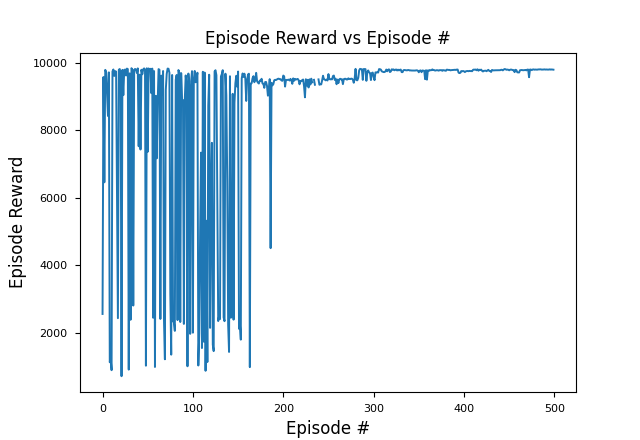
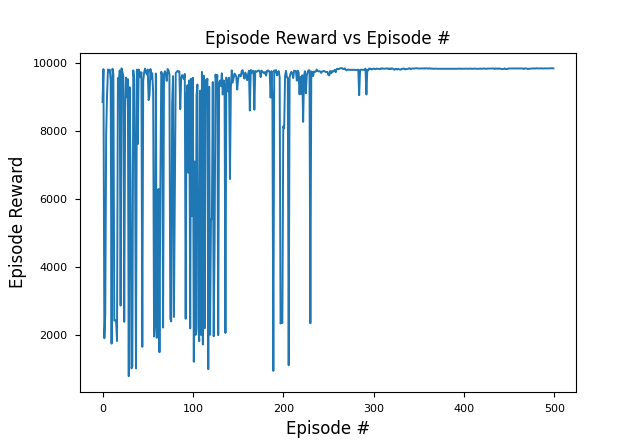
fixed output quantization by setting min and max value

diff --git a/train/quantizer/Quantizer.py b/train/quantizer/Quantizer.py
@@ -17,6 +17,7 @@ from brevitas.graph.base import ModuleToModuleByInstance
 from brevitas.graph.base import ModuleInstanceToModuleInstance
 
 from brevitas.quant.scaled_int import Int8ActPerTensorFloat
+from brevitas.quant.scaled_int import Int8ActPerTensorFloatMinMaxInit
 from brevitas.quant.scaled_int import Int8WeightPerTensorFloat
 from brevitas.quant.scaled_int import Int16Bias
 from brevitas.quant.scaled_int import Int32Bias
@@ -160,7 +161,7 @@ class Quantizer(object):
             'dtype': torch.float32,
             'return_quant_tensor': False}
         
-        quant_act_kwargs = {'act_quant': act_quant, 'return_quant_tensor' : True}
+        quant_act_kwargs = {'act_quant': act_quant, 'return_quant_tensor' : False}
         unsigned_quant_act_kwargs = quant_act_kwargs.copy()
 
         quant_mha_kwargs['attn_output_weights_signed'] = False
@@ -212,6 +213,7 @@ class Quantizer(object):
         for i in range(num_quant_acts, len(quantizable_idx)):
             model = self.quantize_layer(model, quantizable_idx[i], int(strategy[i]))
 
+        model = DisableLastReturnQuantTensor().apply(model)
         model.train(training_state)
         config.IGNORE_MISSING_KEYS = ignore_missing_keys_state
 
@@ -242,10 +244,11 @@ class Quantizer(object):
                         model):
 
         # Input quantizer fixed at 8 bits
-        input_quantizer, input_quantizer_kwargs = self.quantize_kwargs['quant_identity_map']['signed']
-        input_quantizer_kwargs['bit_width'] = 8
-        input_quantizer = (input_quantizer, input_quantizer_kwargs)
-        
+        input_quantizer = (qnn.QuantIdentity, { 'act_quant': Int8ActPerTensorFloat, 
+                                                'return_quant_tensor': False, 
+                                                'bit_width': 8, 
+                                                'scaling_min_val' : 2e-16})
+                                                #'scaling_per_output_channel' : True})
         model = inp_placeholder_handler(model, input_quantizer)
         return model
 
@@ -340,17 +343,18 @@ class Quantizer(object):
                         # for output quant, keep it to 8 bits
                         output_quant_identity_map = deepcopy(quant_identity_map)
                         for n in node.users:
-                            if n.op != 'output':
-                                #output_quant_identity_map['bit_width'] = 8
-
-                                output_quant_handler(
-                                model,
-                                node,
-                                rewriters,
-                                is_sign_preserving=isinstance(module, SIGN_PRESERVING_MODULES),
-                                quant_identity_map=output_quant_identity_map,
-                                quant_act_map=quant_act_map,
-                                unsigned_act_tuple=unsigned_act_tuple)
+                            if n.op == 'output':
+                                output_quant_identity_map = {'signed': (qnn.QuantIdentity, {'act_quant': Int8ActPerTensorFloatMinMaxInit, 'return_quant_tensor': False, 'bit_width': 8, 'min_val' : -128.0, 'max_val' : 127.0}), 
+                                                            'unsigned': (qnn.QuantIdentity, {'act_quant': Int8ActPerTensorFloatMinMaxInit, 'return_quant_tensor': False, 'signed': False, 'bit_width' : 8, 'min_val' : -128.0, 'max_val' : 127.0})
+                                                            }
+                        output_quant_handler(
+                        model,
+                        node,
+                        rewriters,
+                        is_sign_preserving=isinstance(module, SIGN_PRESERVING_MODULES),
+                        quant_identity_map=output_quant_identity_map,
+                        quant_act_map=quant_act_map,
+                        unsigned_act_tuple=unsigned_act_tuple)
 
                     if layer_map[type(module)] is not None:
                         quant_module_class, quant_module_kwargs = layer_map[type(module)]

diff --git a/train/finetune/Finetuner.py b/train/finetune/Finetuner.py
@@ -1,3 +1,5 @@
+import numpy as np
+import random
 import torch
 import torchvision
 import torch.nn as nn
@@ -30,6 +32,7 @@ class Finetuner(object):
 	def __init__(self, args, model_config):
 		self.args = args
 		
+		# set seed to reproduce
 		# Initialize device
 		self.device = None
 		self.init_device()
@@ -115,29 +118,44 @@ class Finetuner(object):
 		calib_length = int(args.calib_subset * total_length)
 
 		train_length = total_length - calib_length
+		
+		g = torch.Generator()
+		g.manual_seed(self.args.seed)
 
 		self.train_set, self.calib_set = random_split(
 			self.train_set, 
-			[train_length, calib_length]
+			[train_length, calib_length],
+			generator=g
 		)
 
 		self.train_set, _ = random_split(self.train_set, 
 										 [int(train_length * self.args.finetuning_subset), 
-										  int(train_length - train_length * self.args.finetuning_subset)])
+										  int(train_length - train_length * self.args.finetuning_subset)],
+										  generator=g)
+
+		def seed_worker(worker_id):
+			worker_seed = self.args.seed
+			np.random.seed(worker_seed)
+			random.seed(worker_seed)
+
 
 		self.train_loader = DataLoader(self.train_set,
 									   batch_size = self.batch_size_finetuning,
 									   num_workers = self.args.num_workers,
-									   shuffle = True)
+									   worker_init_fn=seed_worker,
+									   generator = g)
 		
 		self.calib_loader = DataLoader(self.calib_set, 
 									   batch_size = self.batch_size_finetuning,
 									   num_workers = self.args.num_workers,
-									   shuffle = True)
+									   worker_init_fn=seed_worker,
+									   generator = g)
 			 
 		self.test_loader = DataLoader(self.test_set,
 									  batch_size = self.batch_size_testing,
-									  num_workers = self.args.num_workers)
+									  num_workers = self.args.num_workers,
+									  worker_init_fn=seed_worker,
+									  generator = g)
 		
 	def init_model(self):
 		builder = networks[self.args.model_name]

diff --git a/train.py b/train.py
@@ -3,6 +3,7 @@ import math
 import torch
 import random
 import argparse
+import numpy as np
 from copy import deepcopy
 from agent.ddpg import DDPG
 from train.env import ModelEnv
@@ -153,16 +154,20 @@ def train(num_episode, agent, env, output, debug=False):
     return best_policy, best_reward
 
 args = parser.parse_args()
+# set seed to reproduce
+random.seed(args.seed)
+np.random.seed(args.seed)
+torch.manual_seed(args.seed)
+if torch.cuda.is_available():
+    torch.cuda.manual_seed_all(args.seed)
+torch.backends.cudnn.deterministic = True
+torch.backends.cudnn.benchmark = False
+os.environ['PYTHONHASHSEED'] = str(args.seed)
+
 args.fpga_part = part_map[args.board]
 
 text_writer = open(os.path.join(args.output, 'log.csv'), 'w')
 print('==> Output path: {}...'.format(args.output))
-
-# set seed to reproduce
-random.seed(args.seed)
-torch.manual_seed(args.seed)
-if args.device == 'GPU' and torch.cuda.is_available():
-    torch.cuda.manual_seed_all(args.seed)
 
 # create environment
 env = ModelEnv(args, get_model_config(args.model_name, args.dataset))

diff --git a/test.py b/test.py
@@ -287,7 +287,7 @@ def test(agent, env, output):
             
             # export quant model to qonnx
             name = output + '_quant.onnx'
-            bo.export_qonnx(model, ref_input, export_path = name, keep_initializers_as_inputs = False, opset_version=11)
+            bo.export_qonnx(model, ref_input, export_path = name, keep_initializers_as_inputs = True, opset_version=11)
 
             break
 

diff --git a/pretrain/trainer/Trainer.py b/pretrain/trainer/Trainer.py
@@ -113,6 +113,7 @@ class Trainer(object):
 		
 		train_set, val_set = random_split(train_set, [1 - args.validation_split, args.validation_split])
 
+
 		self.train_loader = DataLoader(train_set,
 									   batch_size = self.batch_size_training,
 									   num_workers = self.args.num_workers,
